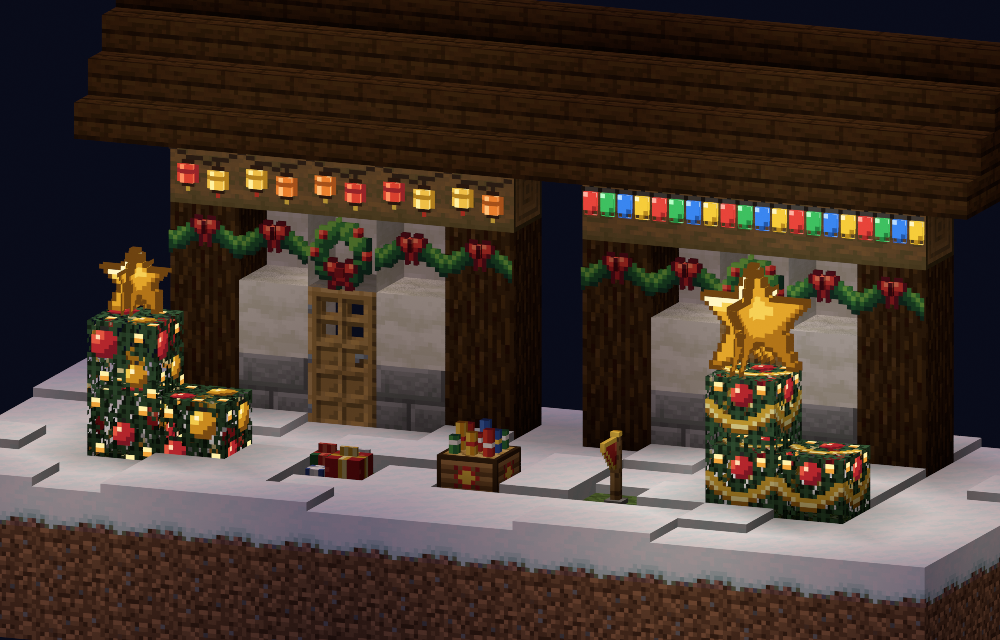
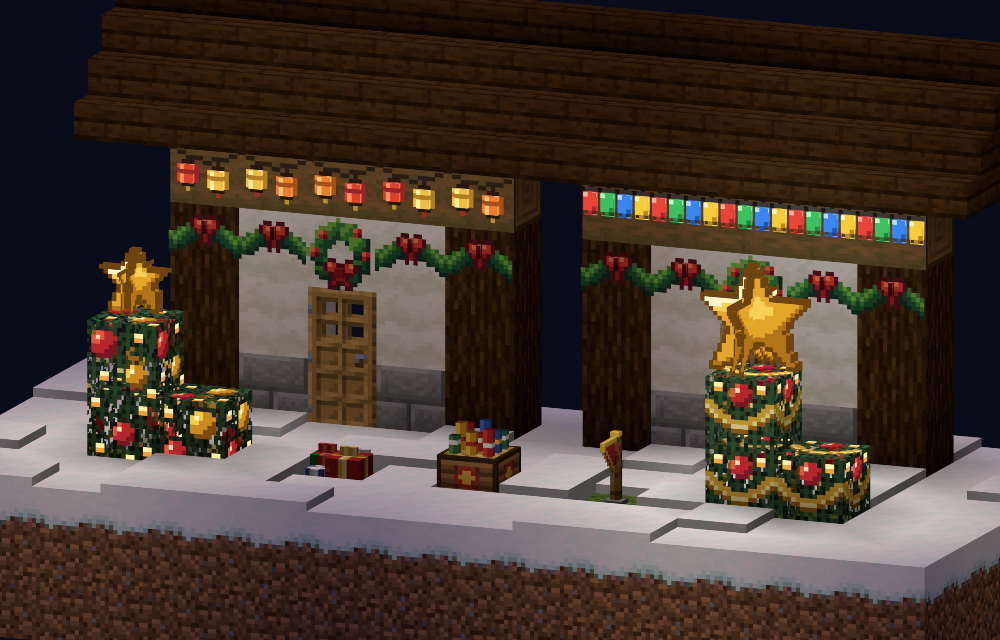
Design renderer: skip the back face of our wall decorations against a solid block
A thin decoration of ours (the wreath) hung on a solid wall block has its back face
in the wall's front plane. The game culls that face; the renderer drew it, coplanar
with the wall face, so a ray through a transparent pixel of the wreath passed both
and showed the inside of the wall block, which read as a missing block behind the
wreath. The S2 look-check renders are made again with the fix.

Changed region(s): [[0.217, 0.3125, 0.465, 0.4688], [0.651, 0.375, 0.868, 0.5]]

diff --git a/design/tools/mcmodel.py b/design/tools/mcmodel.py
@@ -557,6 +557,12 @@ class Scene:
                             nb = (pos[0] + v[0], pos[1] + v[1], pos[2] + v[2])
                             if self.is_full(nb)[0]:
                                 continue
+                            # a thin decoration of ours hung on a solid wall block: its back face lies in the wall's
+                            # front plane. The game culls it; drawn here it is coplanar with the wall face, and a ray
+                            # through a transparent pixel passes both and shows the inside of the wall block.
+                            if (name.startswith(tuple(n + ":" for n in OWN_NAMESPACES))
+                                    and nb in self.parsed and self._solid(nb)):
+                                continue
                             # same-block glass / ice skip their shared faces
                             if nb in self.parsed and self.parsed[nb][0] == name and ("glass" in sn or sn == "ice"):
                                 continue
